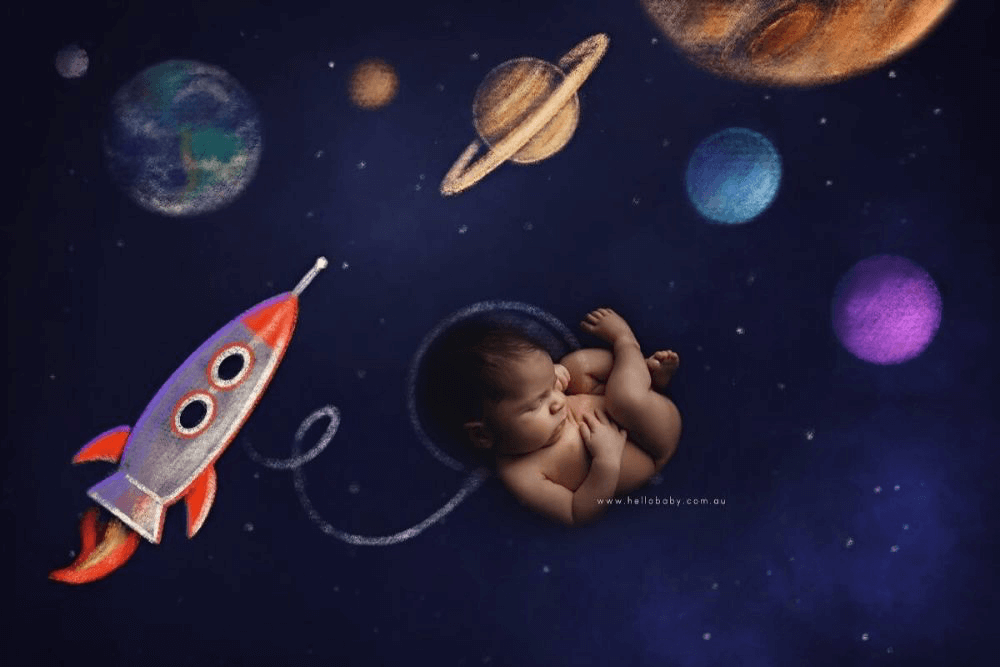
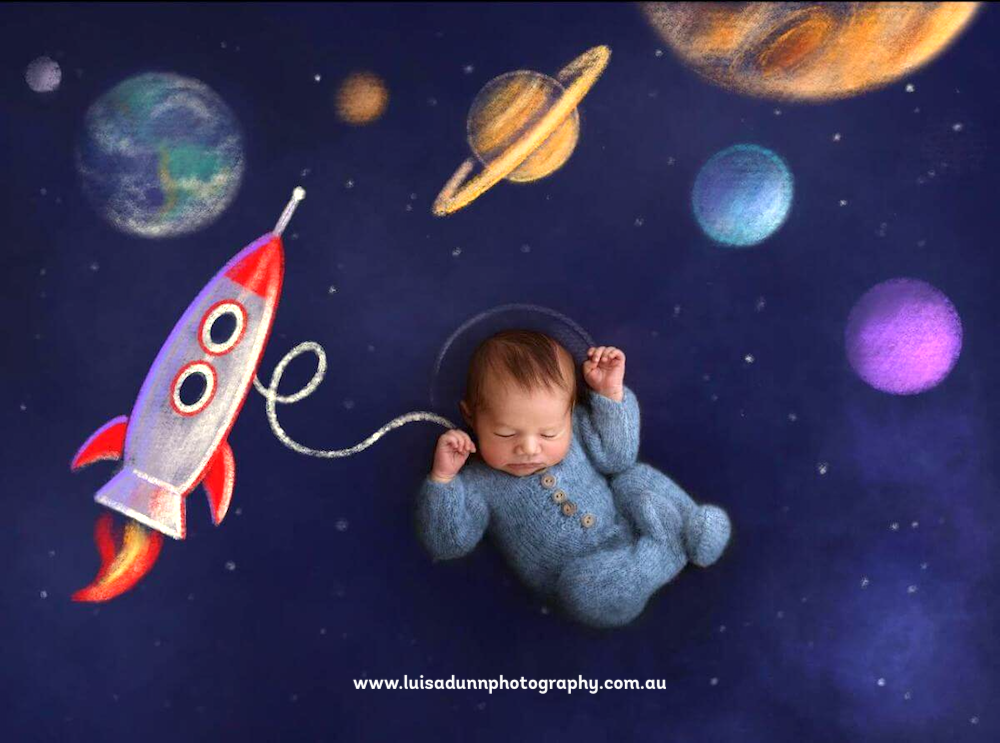
newborn gallery
switched out nude baby rocket photo for clothed version

diff --git a/index.html b/index.html
@@ -136,7 +136,7 @@ newborn-gallery:
   - featured_image: /images/newborn-backgrounds/newborn-16.png
     heading: "Image: ©Cris Passos Photography / www.crispassos.com"
   - featured_image: /images/newborn-backgrounds/newborn-17.png
-    heading: "Image: ©Hello Baby / www.hellobaby.com.au"
+    heading: "Image: ©Luisa Dunn Photography / www.luisadunnphotography.com.au"
   - featured_image: /images/newborn-backgrounds/newborn-18.png
     heading: "Image ©Alma's Home Studio / www.almashomestudio.co.uk"
   - featured_image: /images/newborn-backgrounds/newborn-19.png
@@ -166,8 +166,6 @@ newborn-gallery:
   - featured_image: /images/newborn-backgrounds/newborn-30.png
     heading: "Image: ©Luisa Dunn Photography / www.luisadunnphotography.com.au"
   - featured_image: /images/newborn-backgrounds/newborn-31.png
-    heading: "Image: ©Luisa Dunn Photography / www.luisadunnphotography.com.au"
-  - featured_image: /images/newborn-backgrounds/newborn-32.png
     heading: "Image: ©Luisa Dunn Photography / www.luisadunnphotography.com.au"
 
 children-gallery:
